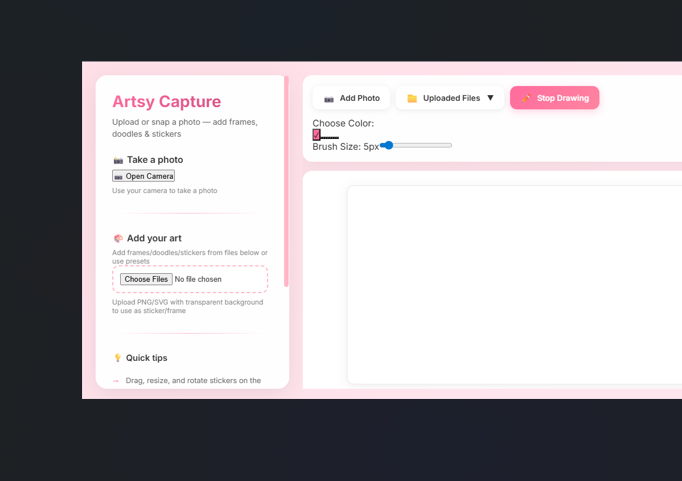
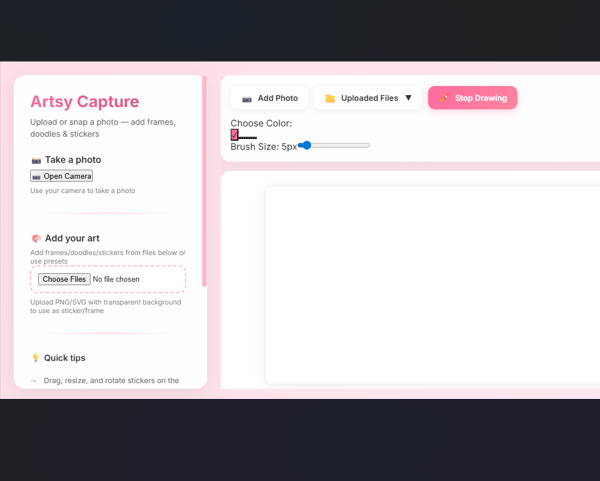
created the modal pop-up feature for projects page as well

Changed region(s): [[0.0, 0.1247, 0.9, 0.842], [0.63, 0.2807, 0.66, 0.3119]]

diff --git a/Code/projects.html b/Code/projects.html
@@ -14,17 +14,31 @@
 
     <!--Project Containers-->
     <div class="project-container">
-        <div class="project-item">
+        <div class="project-item" data-description="An arduino object following robot that I made for my school's science fair!~" onclick="openModal(this)">
             <img src="Images/project1.jpg" alt="Project-1">
         </div>
-        <div class="project-item">
+        <div class="project-item" data-description="Another angle of the robot hehe" onclick="openModal(this)">
             <img src="Images/project2.jpg" alt="Project-2">
         </div>
-        <div class="project-item">
+        <div class="project-item" data-description="My first creative and big coding project called Color Symphony. It is a Vite and React webpage. In the webpage you can draw on the canvas and for every color there is a specific song that plays in the background as you draw(some of my favorite songs)!" onclick="openModal(this)">
             <img src="Images/project3.png" alt="Project-3">
         </div>
-        <div class="project-item">
+        <div class="project-item" data-description="One of my favorite projects! Artsy Capture, a picture doodling Vite and React webpage where you can upload your pictures and then add cute stickers and doodles to it. Kind of like the vibe you get in a photobooth lol." onclick="openModal(this)">
             <img src="Images/project4.png" alt="Project-4">
+        </div>
+    </div>
+
+    <div id="modal" class="modal">
+        <div class="modal-content">
+            <span class="close" onclick="closeModal()">&times;</span>
+            <div class="modal-body">
+                <div class="modal-image">
+                    <img id="modalImg" src="" alt="Project">
+                </div>
+                <div class="modal-description">
+                    <p id="modalDesc"></p>
+                </div>
+            </div>
         </div>
     </div>
 
@@ -32,6 +46,32 @@
 <div class="back-btn-container">
     <button class="back-btn" onclick="window.location.href='home.html'"> Back to Home </button>
 </div>
+
+<script>
+    function openModal(element){
+        const modal= document.getElementById('modal');
+        const modalImg= document.getElementById('modalImg');
+        const modalDesc = document.getElementById('modalDesc');
+        const img = element.querySelector('img');
+        const description = element.getAttribute('data-description');
+
+        modalImg.src = img.src;
+        modalDesc.textContent= description;
+        modal.style.display= 'block';
+    }
+
+    function closeModal() {
+        const modal = document.getElementById('modal');
+        modal.style.display = 'none';
+    }
+
+    window.onclick = function(event) {
+        const modal = document.getElementById('modal');
+        if(event.target == modal) {
+            modal.style.display = 'none';
+        }
+    }
+</script>
 </body>
 
 </html>

diff --git a/Code/projects-styles.css b/Code/projects-styles.css
@@ -56,6 +56,76 @@ body{
     border-radius: 15px;
 }
 
+.modal {
+    display: none;
+    position: fixed;
+    z-index: 1;
+    left: 0;
+    top: 0;
+    width: 100%;
+    height: 100%;
+    background-color: rgba(0, 0, 0, 0.5);
+}
+
+.modal-content {
+    background-color: #4a7c6f;
+    margin: 15% auto;
+    padding: 40px;
+    border-radius: 25px;
+    max-width: 750px;
+    width: 85%;
+    position: relative;
+    box-shadow: 0 10px 40px rgba(0,0,0,0.3);
+}
+
+.close {
+    position: absolute;
+    right: 15px;
+    top: 15px;
+    font-size: 28px;
+    color: white;
+    cursor: pointer;
+    transition: color 0.3s ease;
+}
+
+.close:hover {
+    color: #06e4b7;
+}
+
+.modal-body {
+    display: flex;
+    gap: 25px;
+}
+
+.modal-image {
+    flex: 0 0 250px;
+    width: 250px;
+    height: 220px;
+    background-color: #88c0d6;
+    border-radius: 20px;
+    padding: 15px;
+    box-sizing: border-box;
+}
+
+.modal-image img {
+    width: 100%;
+    height: 100%;
+    object-fit: contain;
+    border-radius: 15px;
+}
+
+.modal-description{
+    flex: 1;
+    color: white;
+    font-size: 15px;
+    line-height: 1.6;
+    font-family: Georgia, serif;
+}
+
+.modal-description p{
+    margin: 0;
+}
+
 .back-btn-container{
     text-align: center;
     margin-bottom: 40px;
